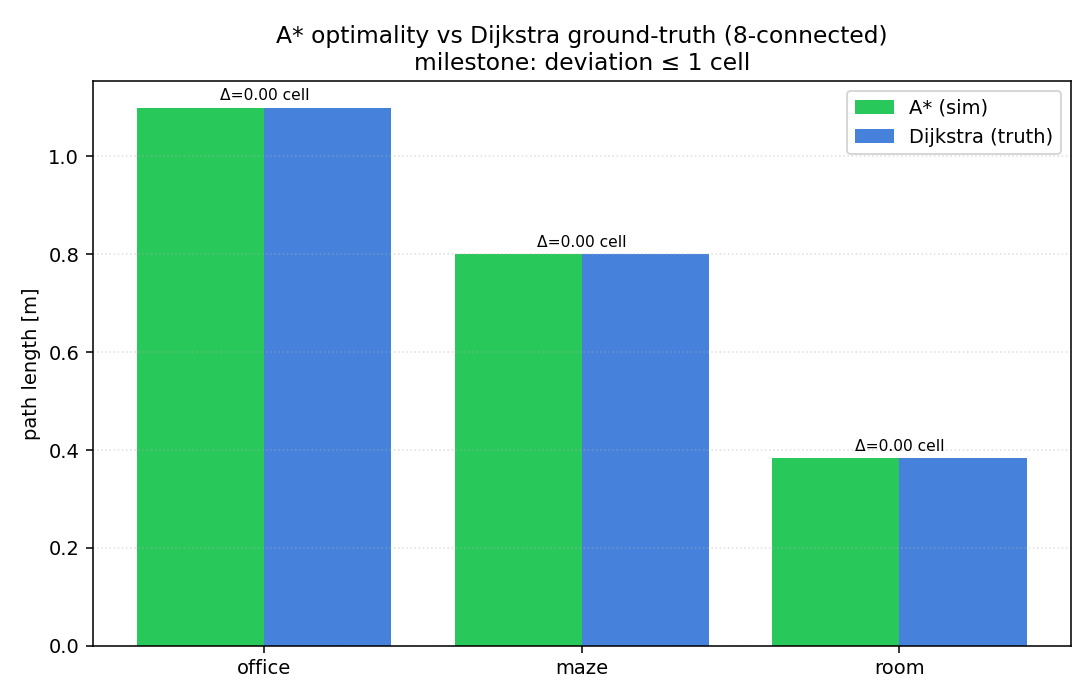
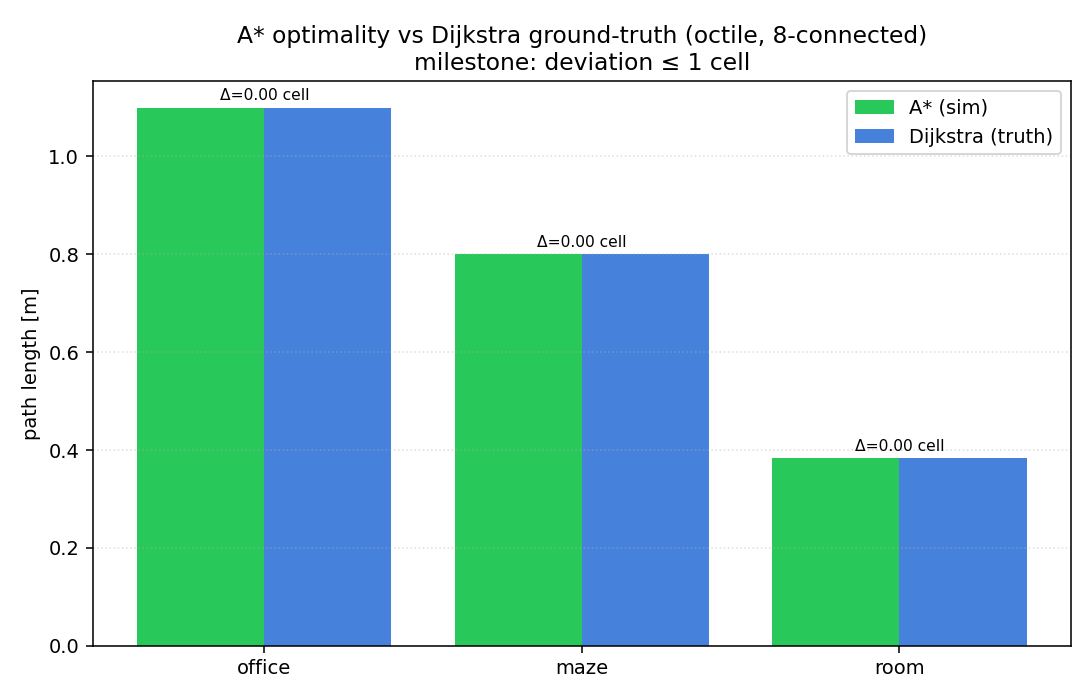
fix(planning): reject the inadmissible Manhattan heuristic under 8-connectivity

Changed region(s): [[0.2179, 0.03, 0.8407, 0.06]]

diff --git a/scripts/v3/optimality_check.py b/scripts/v3/optimality_check.py
@@ -4,9 +4,12 @@ optimality_check.py — A* 路径长度 vs Dijkstra ground-truth 偏差。
 
 对每张测试地图,在 Python 端复刻 C++ A* 的栅格、步代价(直走 1 / 对角 √2)、
 8 连通防穿角规则,跑一遍 **Dijkstra**(无启发,保证最优)拿到 ground-truth
-最短路长度;再驱动 `sim` 拿 A* 的实际路径长度,比较二者偏差。
+最短路长度;再驱动 `sim` 拿 A* 的实际路径长度,比较二者偏差。A* 的启发式由
+`--heuristic` 显式指定(默认 octile,与 config/planner.yaml 一致),不依赖 sim
+的内置默认值。
 
-里程碑指标(v3_plan §0.3):偏差 ≤ 1 个 cell(= 1·resolution)。
+里程碑指标(docs/project_management.md 的 V3 milestone):偏差 ≤ 1 个 cell
+(= 1·resolution)。
 
 产出:
   - results/v3/optimality.png   各地图 A* 与 Dijkstra 长度对比 + 偏差(cell)
@@ -90,11 +93,11 @@ def dijkstra_length(grid: Grid, start, goal, connectivity: int,
 
 
 def run_astar(sim_bin: Path, map_yaml: Path, start: str, goal: str,
-              connectivity: int, out_csv: Path) -> dict:
+              connectivity: int, heuristic: str, out_csv: Path) -> dict:
     cmd = [
         str(sim_bin), "--map", str(map_yaml), "--start", start, "--goal", goal,
-        "--connectivity", str(connectivity), "--inflation-radius", "0.0",
-        "--no-viz", "--out", str(out_csv),
+        "--connectivity", str(connectivity), "--heuristic", heuristic,
+        "--inflation-radius", "0.0", "--no-viz", "--out", str(out_csv),
     ]
     subprocess.run(cmd, check=True, capture_output=True, text=True)
     meta, _ = read_path_csv(out_csv)
@@ -117,10 +120,16 @@ def main() -> None:
     ap.add_argument("--start", default="auto",
                     help="world start \"x,y\" or 'auto' (grid center)")
     ap.add_argument("--connectivity", type=int, default=8, choices=(4, 8))
+    ap.add_argument("--heuristic", default="octile",
+                    choices=("manhattan", "euclidean", "octile"))
     ap.add_argument("--sim-bin", type=Path,
                     default=Path("build/clang18-release/sim"))
     ap.add_argument("--output", type=Path, default=Path("results/v3"))
     args = ap.parse_args()
+    # 与 C++ AStarPlanner 同一条规则:manhattan 在 8 连通下不 admissible,直接拒绝。
+    if args.heuristic == "manhattan" and args.connectivity == 8:
+        raise SystemExit("--heuristic manhattan is inadmissible with --connectivity 8; "
+                         "use octile/euclidean or --connectivity 4")
 
     sim_bin = args.sim_bin
     if not sim_bin.exists():
@@ -146,7 +155,8 @@ def main() -> None:
             print(f"{stem:<12}  (no --goal-of {stem}=x,y; skipped)")
             continue
 
-        meta = run_astar(sim_bin, map_yaml, start, goal, args.connectivity, tmp)
+        meta = run_astar(sim_bin, map_yaml, start, goal, args.connectivity,
+                         args.heuristic, tmp)
         a_len = float(meta["path_length_m"]) if meta.get("success") == "1" else math.nan
 
         s = tuple(float(v) for v in start.split(","))
@@ -181,7 +191,7 @@ def main() -> None:
         ax.set_xticklabels(names)
         ax.set_ylabel("path length [m]")
         ax.set_title(f"A* optimality vs Dijkstra ground-truth "
-                     f"({args.connectivity}-connected)\n"
+                     f"({args.heuristic}, {args.connectivity}-connected)\n"
                      f"milestone: deviation ≤ 1 cell")
         ax.legend()
         ax.grid(True, axis="y", ls=":", alpha=0.4)

diff --git a/tests/planning/astar_tests.cpp b/tests/planning/astar_tests.cpp
@@ -9,6 +9,7 @@ import mininav.core.types;
 #include <cstddef>
 #include <cstdint>
 #include <numbers>
+#include <stdexcept>
 #include <vector>
 
 namespace {
@@ -107,6 +108,26 @@ TEST(AStar, AdmissibleHeuristicsAgreeOnOptimalLength) {
   EXPECT_NEAR(len[0], 12.0, kEps);
   EXPECT_NEAR(len[1], len[0], kEps);
   EXPECT_NEAR(len[2], len[0], kEps);
+}
+
+// 8 连通下只有 Euclidean / Octile admissible,二者同样给出相同最优长度。
+// 绕墙最短 = 8 + 2√2:(0,0)→(1,4) 与 (3,4)→(4,0) 各为 3 直 + 1 斜;门洞 (2,4)
+// 两侧的斜穿被防穿角规则禁止((2,3) 是墙),只能走 (1,4)→(2,4)→(3,4) 两个正交步。
+TEST(AStar, AdmissibleHeuristicsAgreeOnOptimalLengthEightConnected) {
+  for (const Heuristic h : {Heuristic::Euclidean, Heuristic::Octile}) {
+    const AStarPlanner planner{wall_map(), cfg(Connectivity::Eight, h)};
+    const PlanResult r = planner.plan(at_cell(0, 0), at_cell(4, 0));
+    ASSERT_TRUE(r.success);
+    EXPECT_NEAR(r.path.length(), 8.0 + 2.0 * kSqrt2, kEps);
+  }
+}
+
+// Manhattan 在 8 连通下高估对角步(记 2,实为 √2),不 admissible —— 最优性
+// 保证会被悄悄打破,所以构造期直接拒绝,而不是返回一条次优路径。
+TEST(AStar, RejectsInadmissibleManhattanUnderEightConnectivity) {
+  EXPECT_THROW((AStarPlanner{make_grid(5, 5, {}),
+                             cfg(Connectivity::Eight, Heuristic::Manhattan)}),
+               std::invalid_argument);
 }
 
 // ---------------------------------------------------------------------------

diff --git a/src/planning/astar.cpp b/src/planning/astar.cpp
@@ -10,6 +10,7 @@ module;
 #include <limits>
 #include <numbers>
 #include <queue>
+#include <stdexcept>
 #include <vector>
 
 module mininav.planning.astar;
@@ -103,6 +104,16 @@ namespace mininav::planning
     AStarPlanner::AStarPlanner(OccupancyGrid grid, PlannerConfig cfg)
         : grid_{inflate(grid, cfg.inflation_radius)}, cfg_{cfg}
     {
+        // 不 admissible 的组合会悄悄丢掉最优性(见 is_admissible):构造期直接拒绝,
+        // 而不是返回一条看似正常的次优路径。
+        if (!is_admissible(cfg_.heuristic, cfg_.connectivity))
+        {
+            throw std::invalid_argument(
+                "AStarPlanner: the Manhattan heuristic is inadmissible under 8-connectivity "
+                "(a diagonal step costs sqrt(2) but Manhattan counts 2); "
+                "use octile or euclidean, or 4-connectivity");
+        }
+
         if (cfg_.cost_weight > 0.0)
         {
             cost_ = compute_gradient_cost(grid_);

diff --git a/tests/planning/planner_config_tests.cpp b/tests/planning/planner_config_tests.cpp
@@ -3,6 +3,7 @@ import mininav.planning.grid_types;
 
 #include <gtest/gtest.h>
 
+#include <stdexcept>
 #include <string>
 
 namespace {
@@ -70,4 +71,13 @@ TEST(PlannerConfig, RejectsInvalidConnectivity) {
 
 TEST(PlannerConfig, RejectsUnknownHeuristic) {
   EXPECT_THROW((void)parse_planner_config("heuristic: diagonal"), std::runtime_error);
+}
+
+// manhattan 只在 4 连通下 admissible。connectivity 缺省为 8,所以单写
+// `heuristic: manhattan` 也必须被拒绝;显式配 4 连通则合法。
+TEST(PlannerConfig, RejectsManhattanUnlessFourConnected) {
+  EXPECT_THROW((void)parse_planner_config("heuristic: manhattan\nconnectivity: 8"),
+               std::runtime_error);
+  EXPECT_THROW((void)parse_planner_config("heuristic: manhattan"), std::runtime_error);
+  EXPECT_NO_THROW((void)parse_planner_config("heuristic: manhattan\nconnectivity: 4"));
 }

diff --git a/src/planning/planner_config.cpp b/src/planning/planner_config.cpp
@@ -84,6 +84,15 @@ namespace mininav::planning
             {
                 cfg.cost_weight = node["cost_weight"].as<double>();
             }
+            // 组合校验放在全部字段解析之后:connectivity 缺省为 8,所以单写
+            // `heuristic: manhattan` 同样会被拒绝。
+            if (!is_admissible(cfg.heuristic, cfg.connectivity))
+            {
+                throw std::runtime_error(
+                    "planner_config: heuristic 'manhattan' is inadmissible with connectivity 8 "
+                    "(a diagonal step costs sqrt(2) but Manhattan counts 2); "
+                    "use 'octile' or 'euclidean', or set connectivity: 4");
+            }
             return cfg;
         }
     } // namespace

diff --git a/src/apps/sim_main.cpp b/src/apps/sim_main.cpp
@@ -233,7 +233,8 @@ namespace
                        "Planning start as \"x,y\" in world meters (default: grid center).");
         app.add_option("--goal", opts.goal_str,
                        "Planning goal as \"x,y\" in world meters (required in planning mode).");
-        app.add_option("--heuristic", opts.heuristic_name, "A* heuristic override.")
+        app.add_option("--heuristic", opts.heuristic_name,
+                       "A* heuristic override (manhattan requires --connectivity 4).")
            ->check(CLI::IsMember({"manhattan", "euclidean", "octile"}));
         app.add_option("--connectivity", opts.connectivity,
                        "Grid connectivity override (4 or 8).");

diff --git a/scripts/v3/animate_search.py b/scripts/v3/animate_search.py
@@ -156,6 +156,10 @@ def main() -> None:
                     help="末尾停留(展示完整路径)秒数")
     ap.add_argument("--output", type=Path, default=None)
     args = ap.parse_args()
+    # 与 C++ AStarPlanner 同一条规则:manhattan 在 8 连通下不 admissible,直接拒绝。
+    if args.heuristic == "manhattan" and args.connectivity == 8:
+        raise SystemExit("--heuristic manhattan is inadmissible with --connectivity 8; "
+                         "use octile/euclidean or --connectivity 4")
 
     grid = load_grid(args.map)
     infl = inflate(grid, args.inflation_radius)

diff --git a/docs/experiments/v3_planning.md b/docs/experiments/v3_planning.md
@@ -28,8 +28,8 @@ V2 把概率状态估计打磨完,留下一条根本性的未解问题:仅靠本
 ## 2. 系统与方法
 
 - **规划器**:`mininav::planning::AStarPlanner`(扁平 `g` 表 + 二叉堆 open set,
-  4/8 连通,Manhattan/Euclidean/Octile 启发,tie-break 偏向小 `h`,8 连通带
-  防穿角)。一致启发式下首次出队目标即最优。
+  4/8 连通,Euclidean/Octile 启发 + 仅限 4 连通的 Manhattan(见 §4.1),tie-break
+  偏向小 `h`,8 连通带防穿角)。一致启发式下首次出队目标即最优。
 - **地图**:ROS `map_server` 风格的 image(PGM)+ yaml。手画测试地图见
   `maps/{office,maze,room,corridor}`;基准用 `scripts/v3/benchmark_planner.py`
   程序化生成 N×N 随机障碍地图(固定种子 + 保留 L 形安全走廊保证可达)。
@@ -114,7 +114,8 @@ V2 把概率状态估计打磨完,留下一条根本性的未解问题:仅靠本
 
 `scripts/v3/optimality_check.py` 在 Python 端复刻 C++ 的栅格、步代价(直走 1 /
 对角 √2)与 8 连通防穿角规则,跑无启发的 **Dijkstra** 拿 ground-truth 最短长度,
-与 `sim` 的 A\* 实际路径长度比较(膨胀半径置 0,纯几何最短路):
+与 `sim` 的 A\* 实际路径长度比较(8 连通 + 显式 `--heuristic octile`,与
+`config/planner.yaml` 一致;膨胀半径置 0,纯几何最短路):
 
 | 地图     | A\* 长度 [m] | Dijkstra 长度 [m] | 偏差 [cell] | 达标 |
 |--------|-----------|-----------------|-----------|----|
@@ -128,8 +129,33 @@ V2 把概率状态估计打磨完,留下一条根本性的未解问题:仅靠本
 "≤ 1 cell"指标。这验证了 Octile 启发式的 admissible/consistent 性质:在一致
 启发式下,A\* 与无启发 Dijkstra 给出相同的最优长度,只是扩展的节点更少。
 
-> `planning_tests` 里另有 `AStar*` 系列单测从代码侧锁住同一主张(三种启发式给出
-> 相同最优长度、绕墙已知最短路、不可达返回 false、防穿角、tie-break 确定性)。
+> `planning_tests` 里另有 `AStar*` 系列单测从代码侧锁住同一主张(4 连通下三种启发式、
+> 8 连通下 Euclidean/Octile 给出相同最优长度,绕墙已知最短路、不可达返回 false、
+> 防穿角、tie-break 确定性)。
+
+### 4.1 启发式必须与连通度匹配
+
+最优性保证的前提是启发式 **admissible**:从不高估剩余的真实代价。8 连通下对角
+一步的真实代价是 √2,而 Manhattan 把它记为 2 —— 它会高估,A\* 退化成偏贪心的
+搜索:扩展节点骤减,但路径不再保证最优。office500 上实测(8 连通、膨胀置 0、
+起止点同 §3.1):
+
+| 启发式       | 路径长度 [m]              | 扩展节点数  |
+|-----------|-----------------------|--------|
+| octile    | 34.1843               | 40 945 |
+| euclidean | 34.1843               | 55 398 |
+| manhattan | **34.2408**(+1.13 cell) | 976    |
+
+Manhattan 的路径比最优长 1.13 个 cell,**超出** ≤ 1 cell 指标 —— 而且是悄无声息
+地超出:规划成功、路径看起来也正常。因此 "manhattan + 8 连通" 被定为非法组合:
+`load_planner_config` 与 `AStarPlanner` 构造都会直接报错(CLI 的 `--heuristic` /
+`--connectivity` 覆盖同样经过构造期校验),`RejectsManhattanUnlessFourConnected` /
+`RejectsInadmissibleManhattanUnderEightConnectivity` 两条单测锁住这条规则。上表
+manhattan 一行是加入校验之前测得的。
+
+同表还给出一个正面结论:octile 是无障碍 8 连通栅格上的**精确**剩余代价,比
+euclidean 更紧,在同样最优的前提下少扩展约 26% 的节点 —— 这是 `planner.yaml`
+默认选它的原因。推导见 [`docs/math/astar_planning.md`](../math/astar_planning.md)。
 
 ---
 
